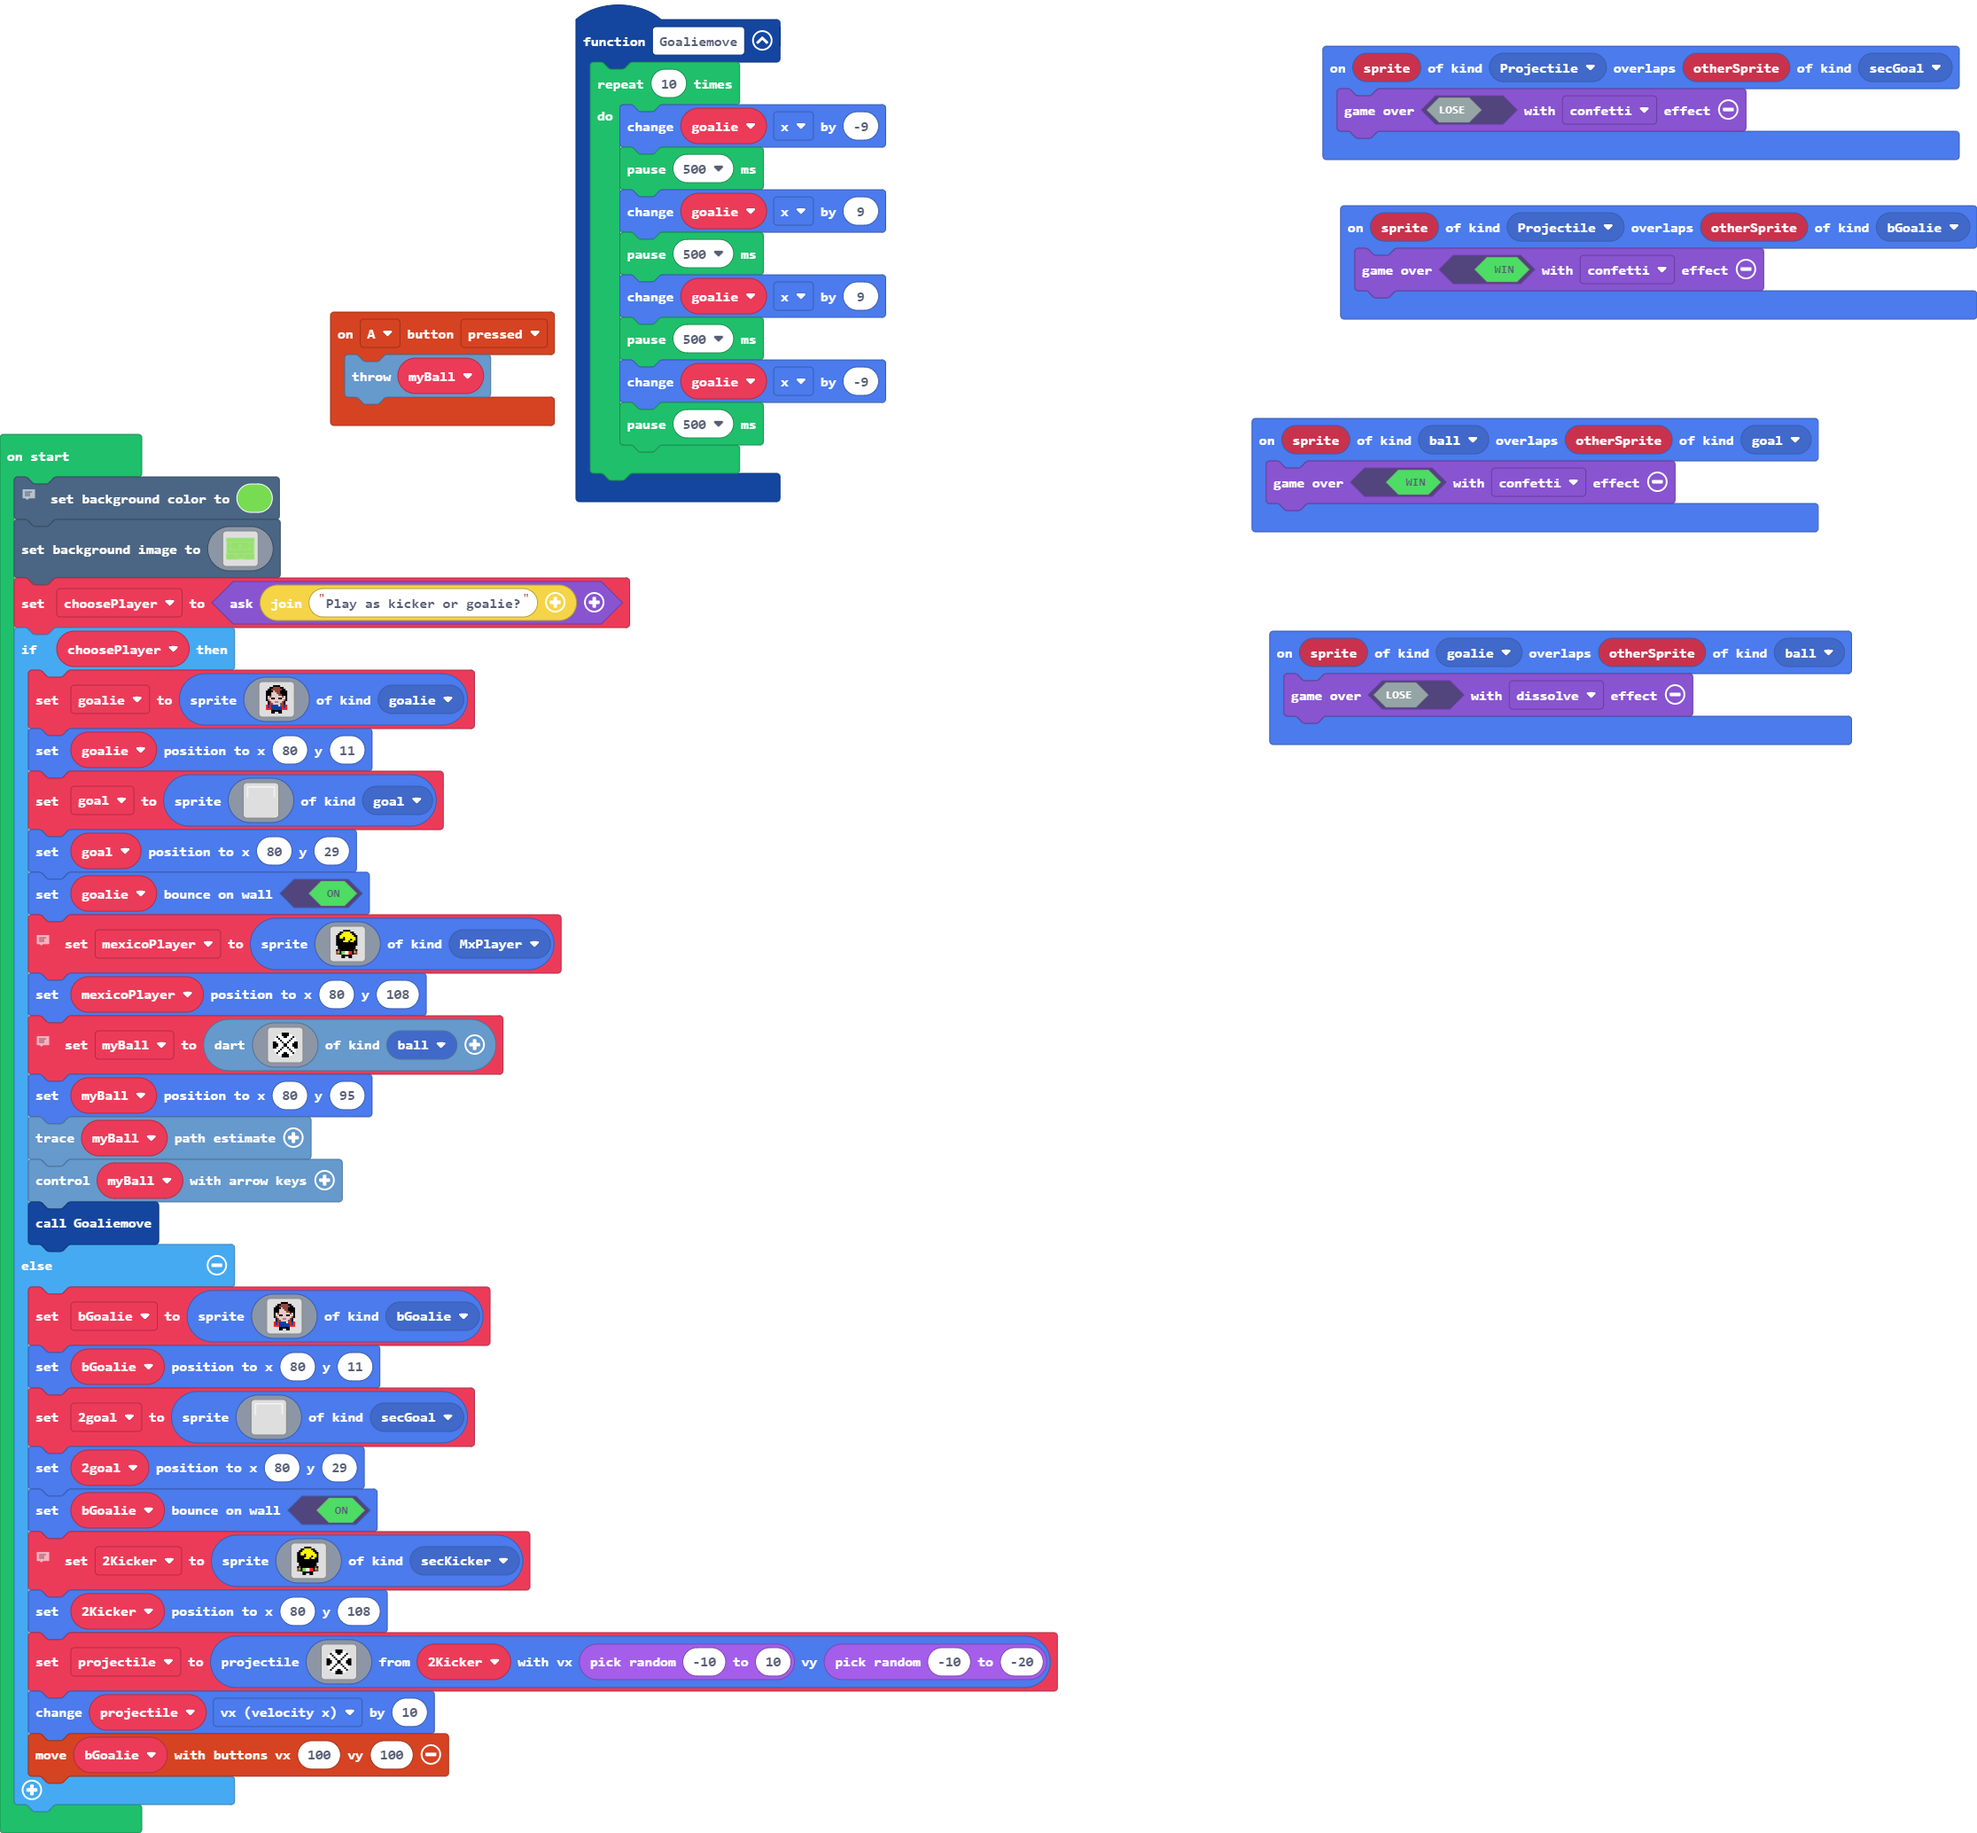
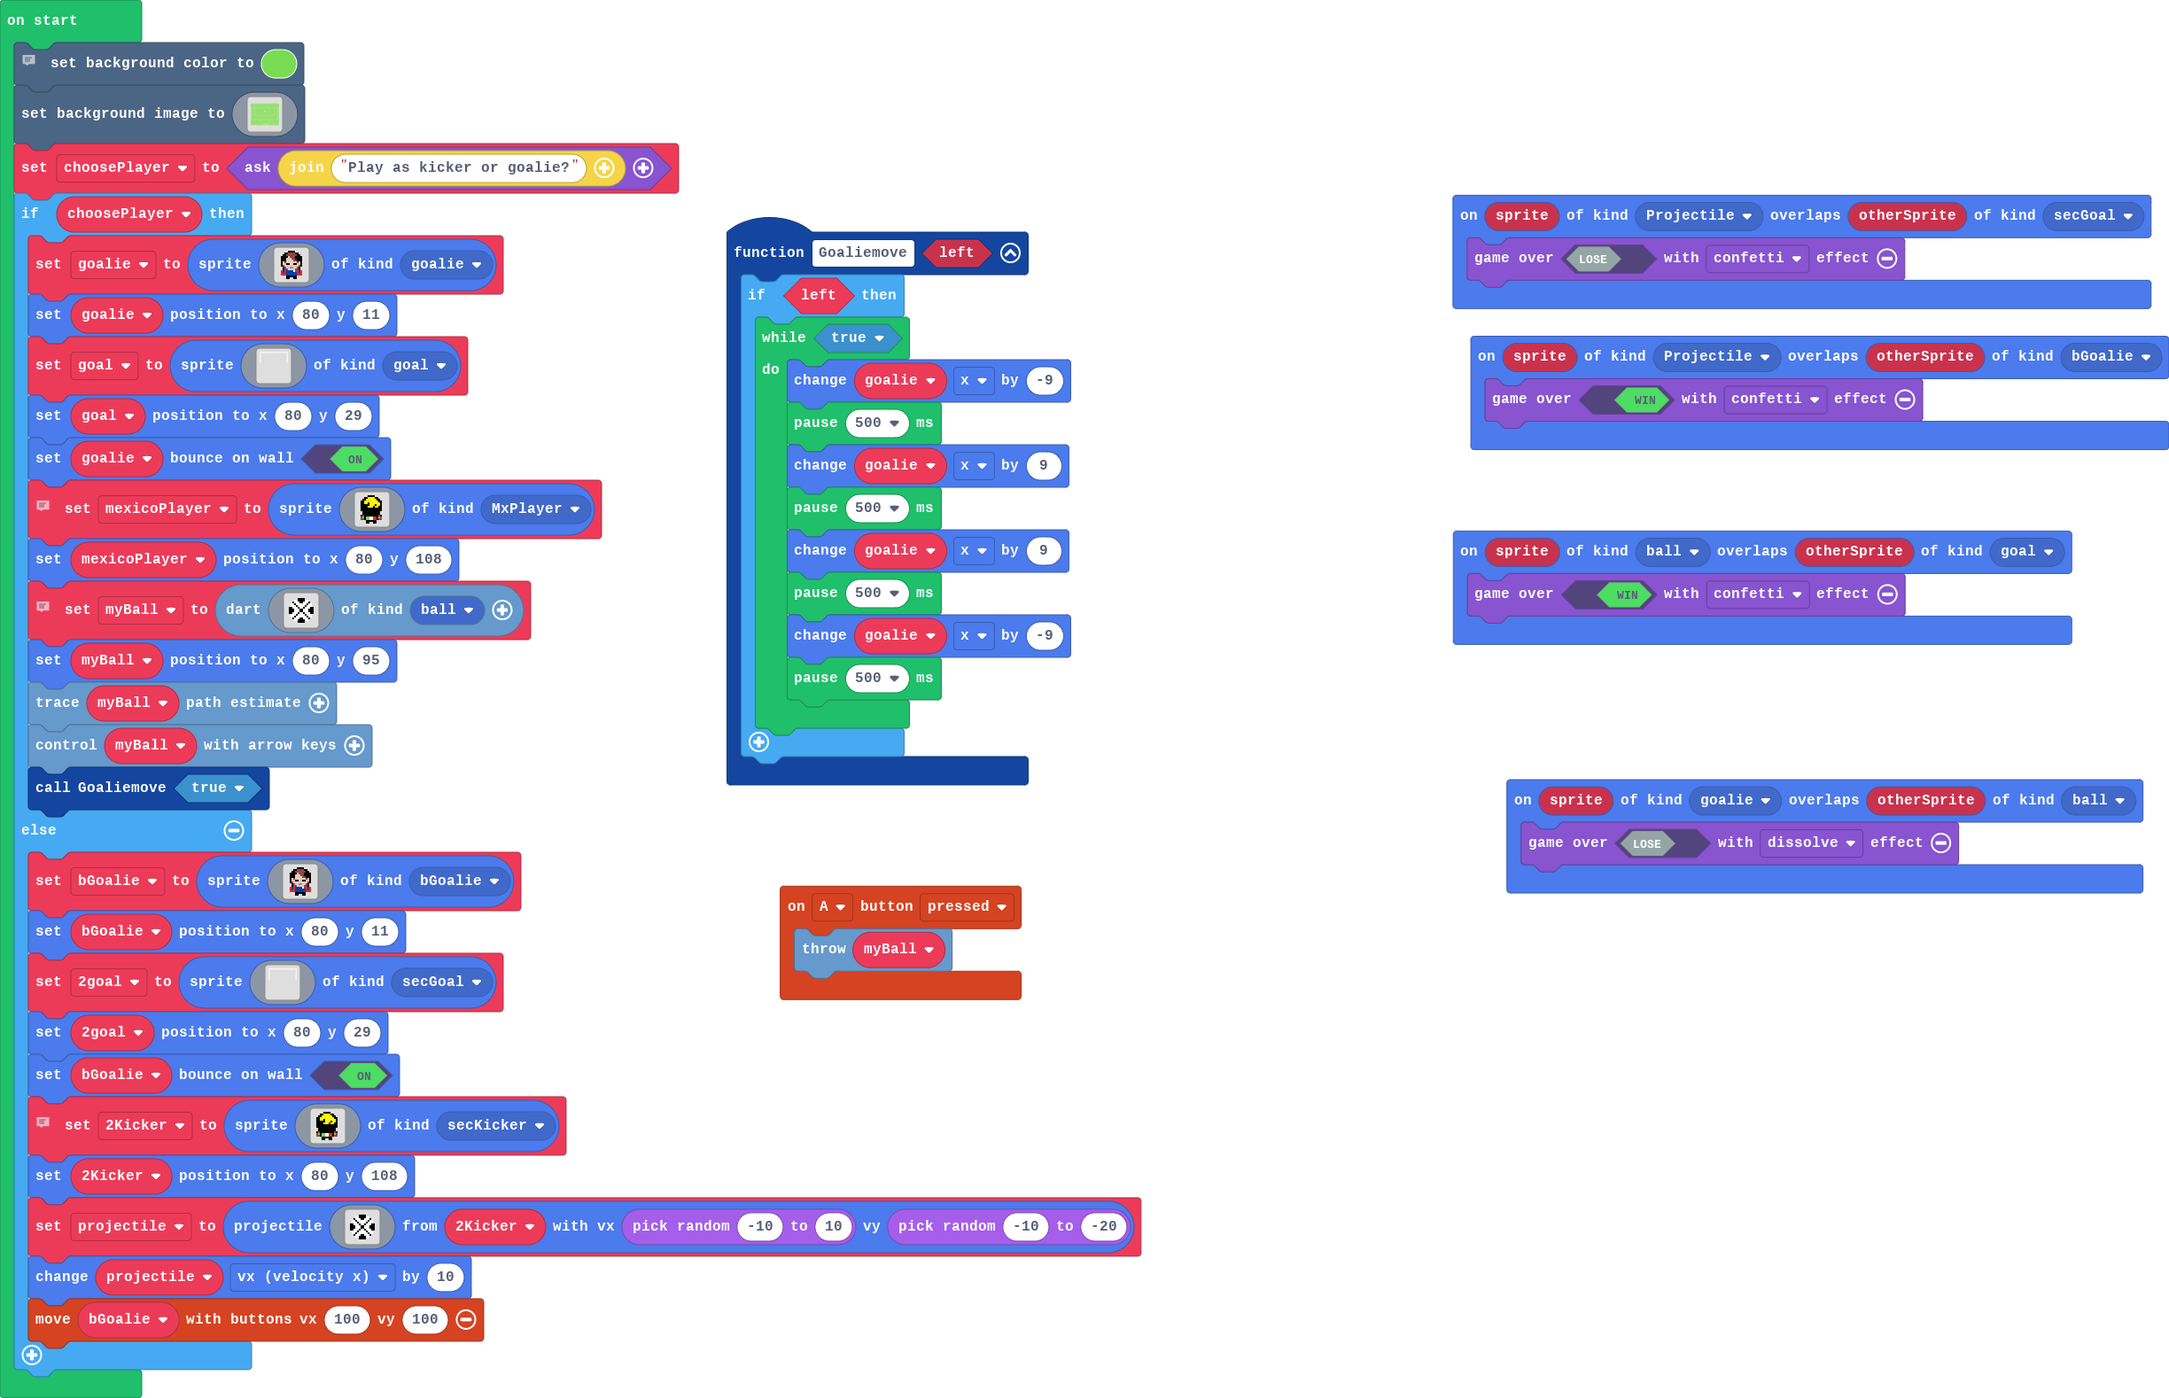
last changes

diff --git a/main.ts b/main.ts
@@ -16,16 +16,18 @@ controller.A.onEvent(ControllerButtonEvent.Pressed, function () {
 sprites.onOverlap(SpriteKind.Projectile, SpriteKind.bGoalie, function (sprite, otherSprite) {
     game.over(true, effects.confetti)
 })
-function Goaliemove () {
-    for (let index = 0; index < 10; index++) {
-        goalie.x += -9
-        pause(500)
-        goalie.x += 9
-        pause(500)
-        goalie.x += 9
-        pause(500)
-        goalie.x += -9
-        pause(500)
+function Goaliemove (left: boolean) {
+    if (left) {
+        while (true) {
+            goalie.x += -9
+            pause(500)
+            goalie.x += 9
+            pause(500)
+            goalie.x += 9
+            pause(500)
+            goalie.x += -9
+            pause(500)
+        }
     }
 }
 sprites.onOverlap(SpriteKind.Projectile, SpriteKind.secGoal, function (sprite, otherSprite) {
@@ -288,7 +290,7 @@ if (choosePlayer) {
     myBall.setPosition(80, 95)
     myBall.setTrace()
     myBall.controlWithArrowKeys()
-    Goaliemove()
+    Goaliemove(true)
 } else {
     bGoalie = sprites.create(img`
         . . . . f f f f . . . . 
